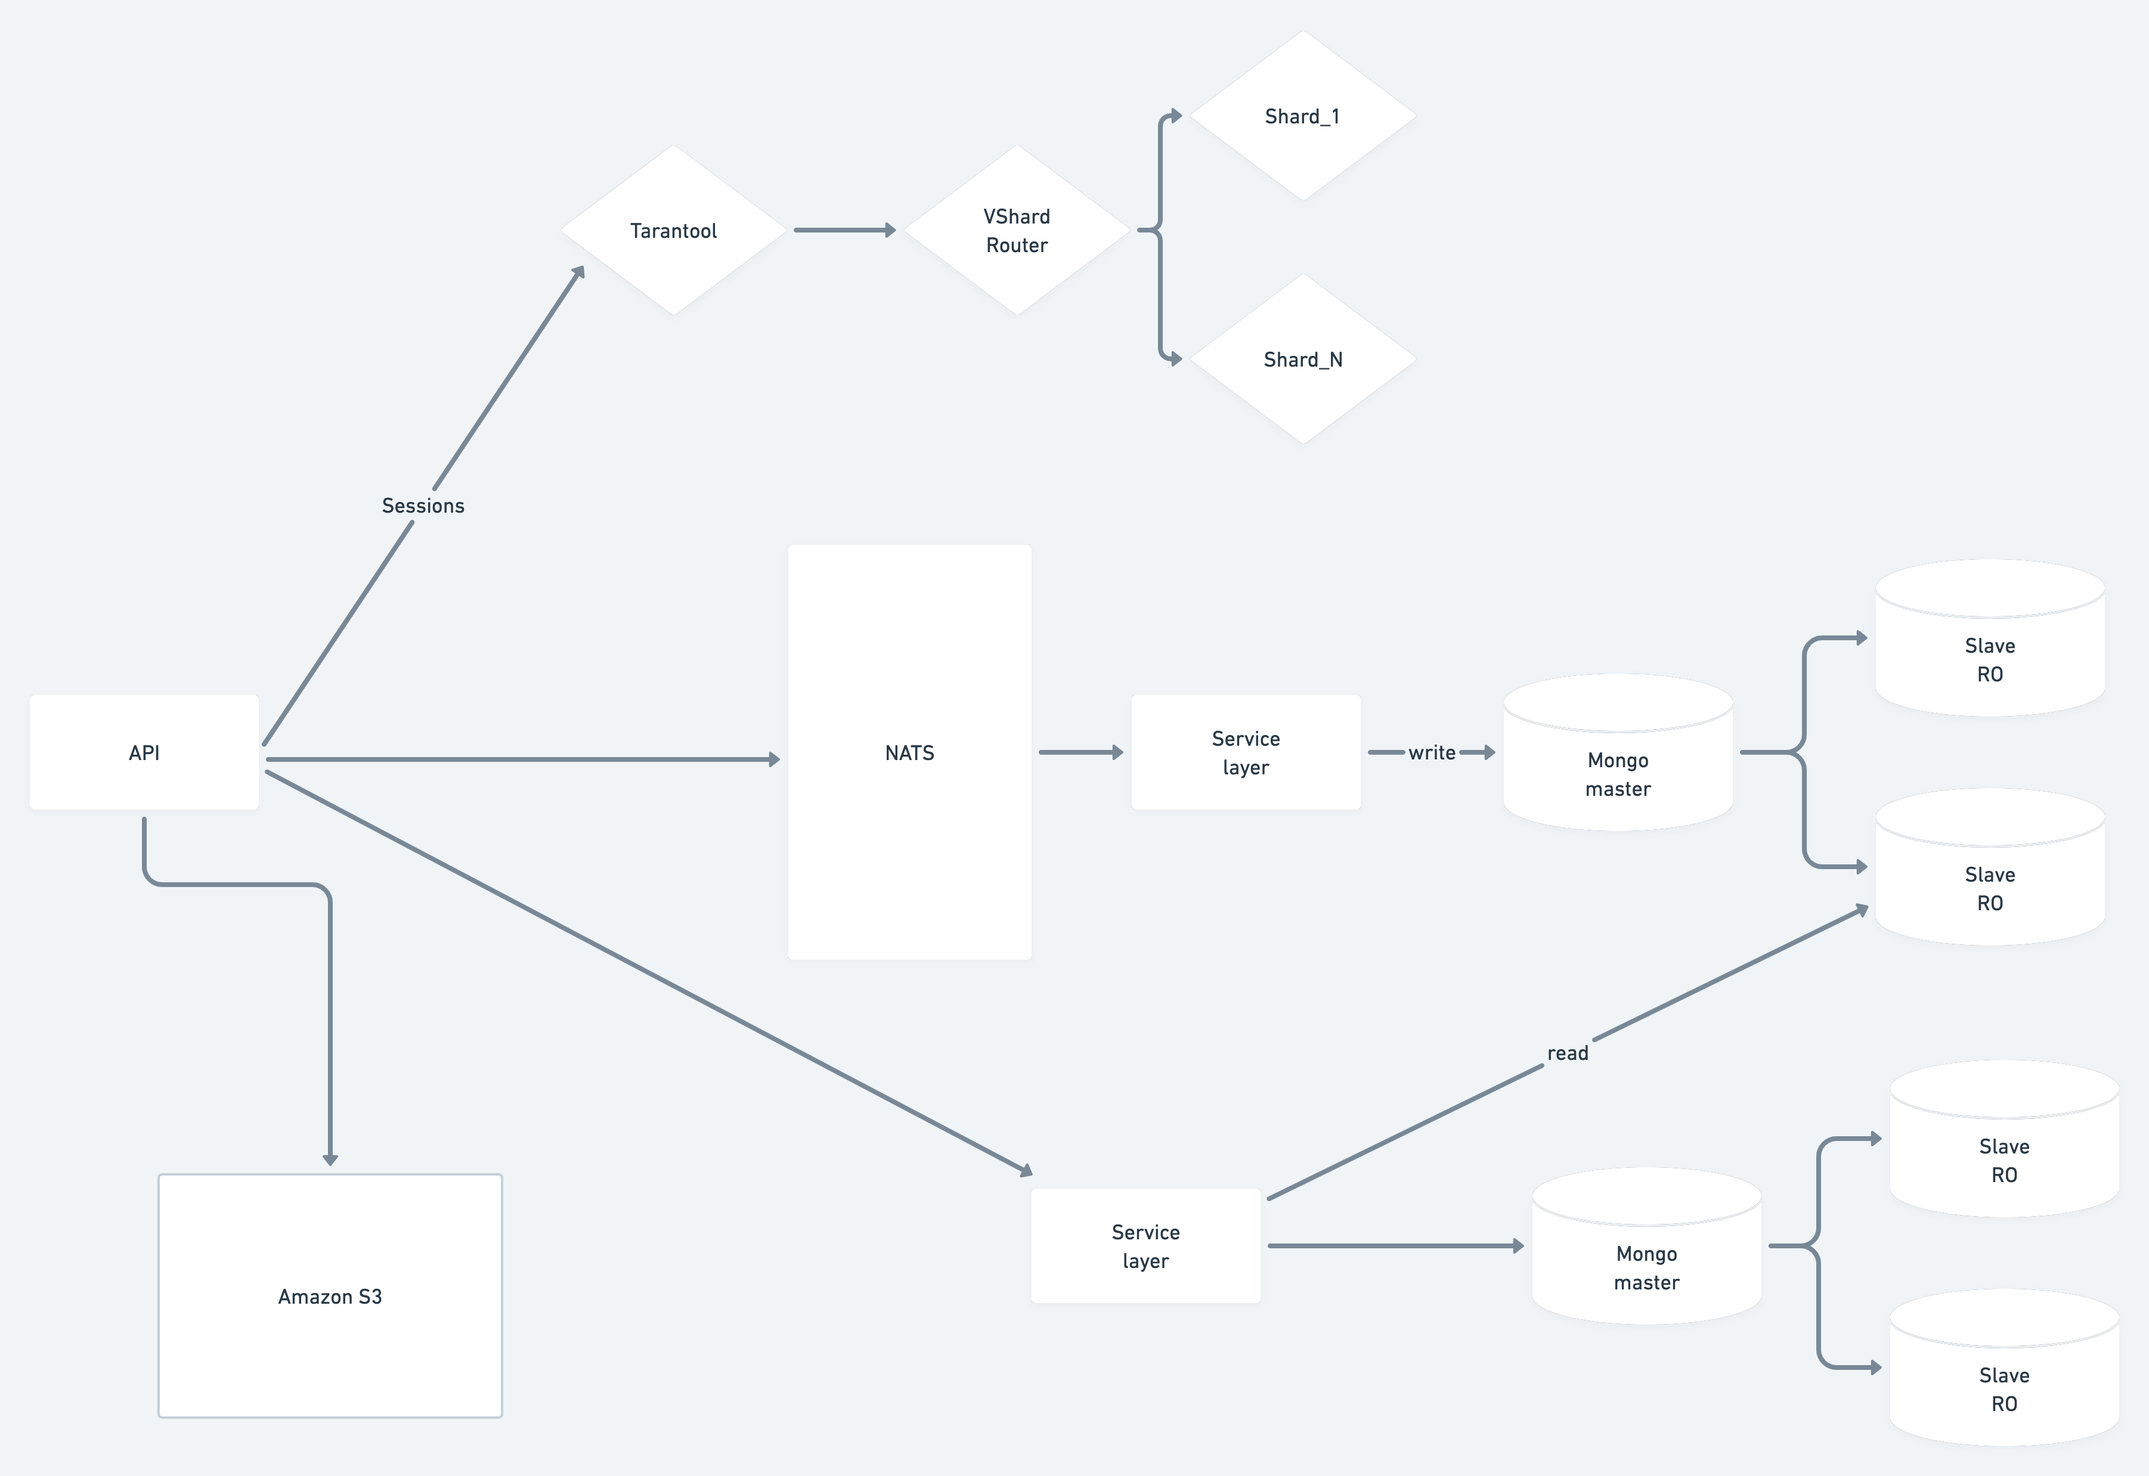
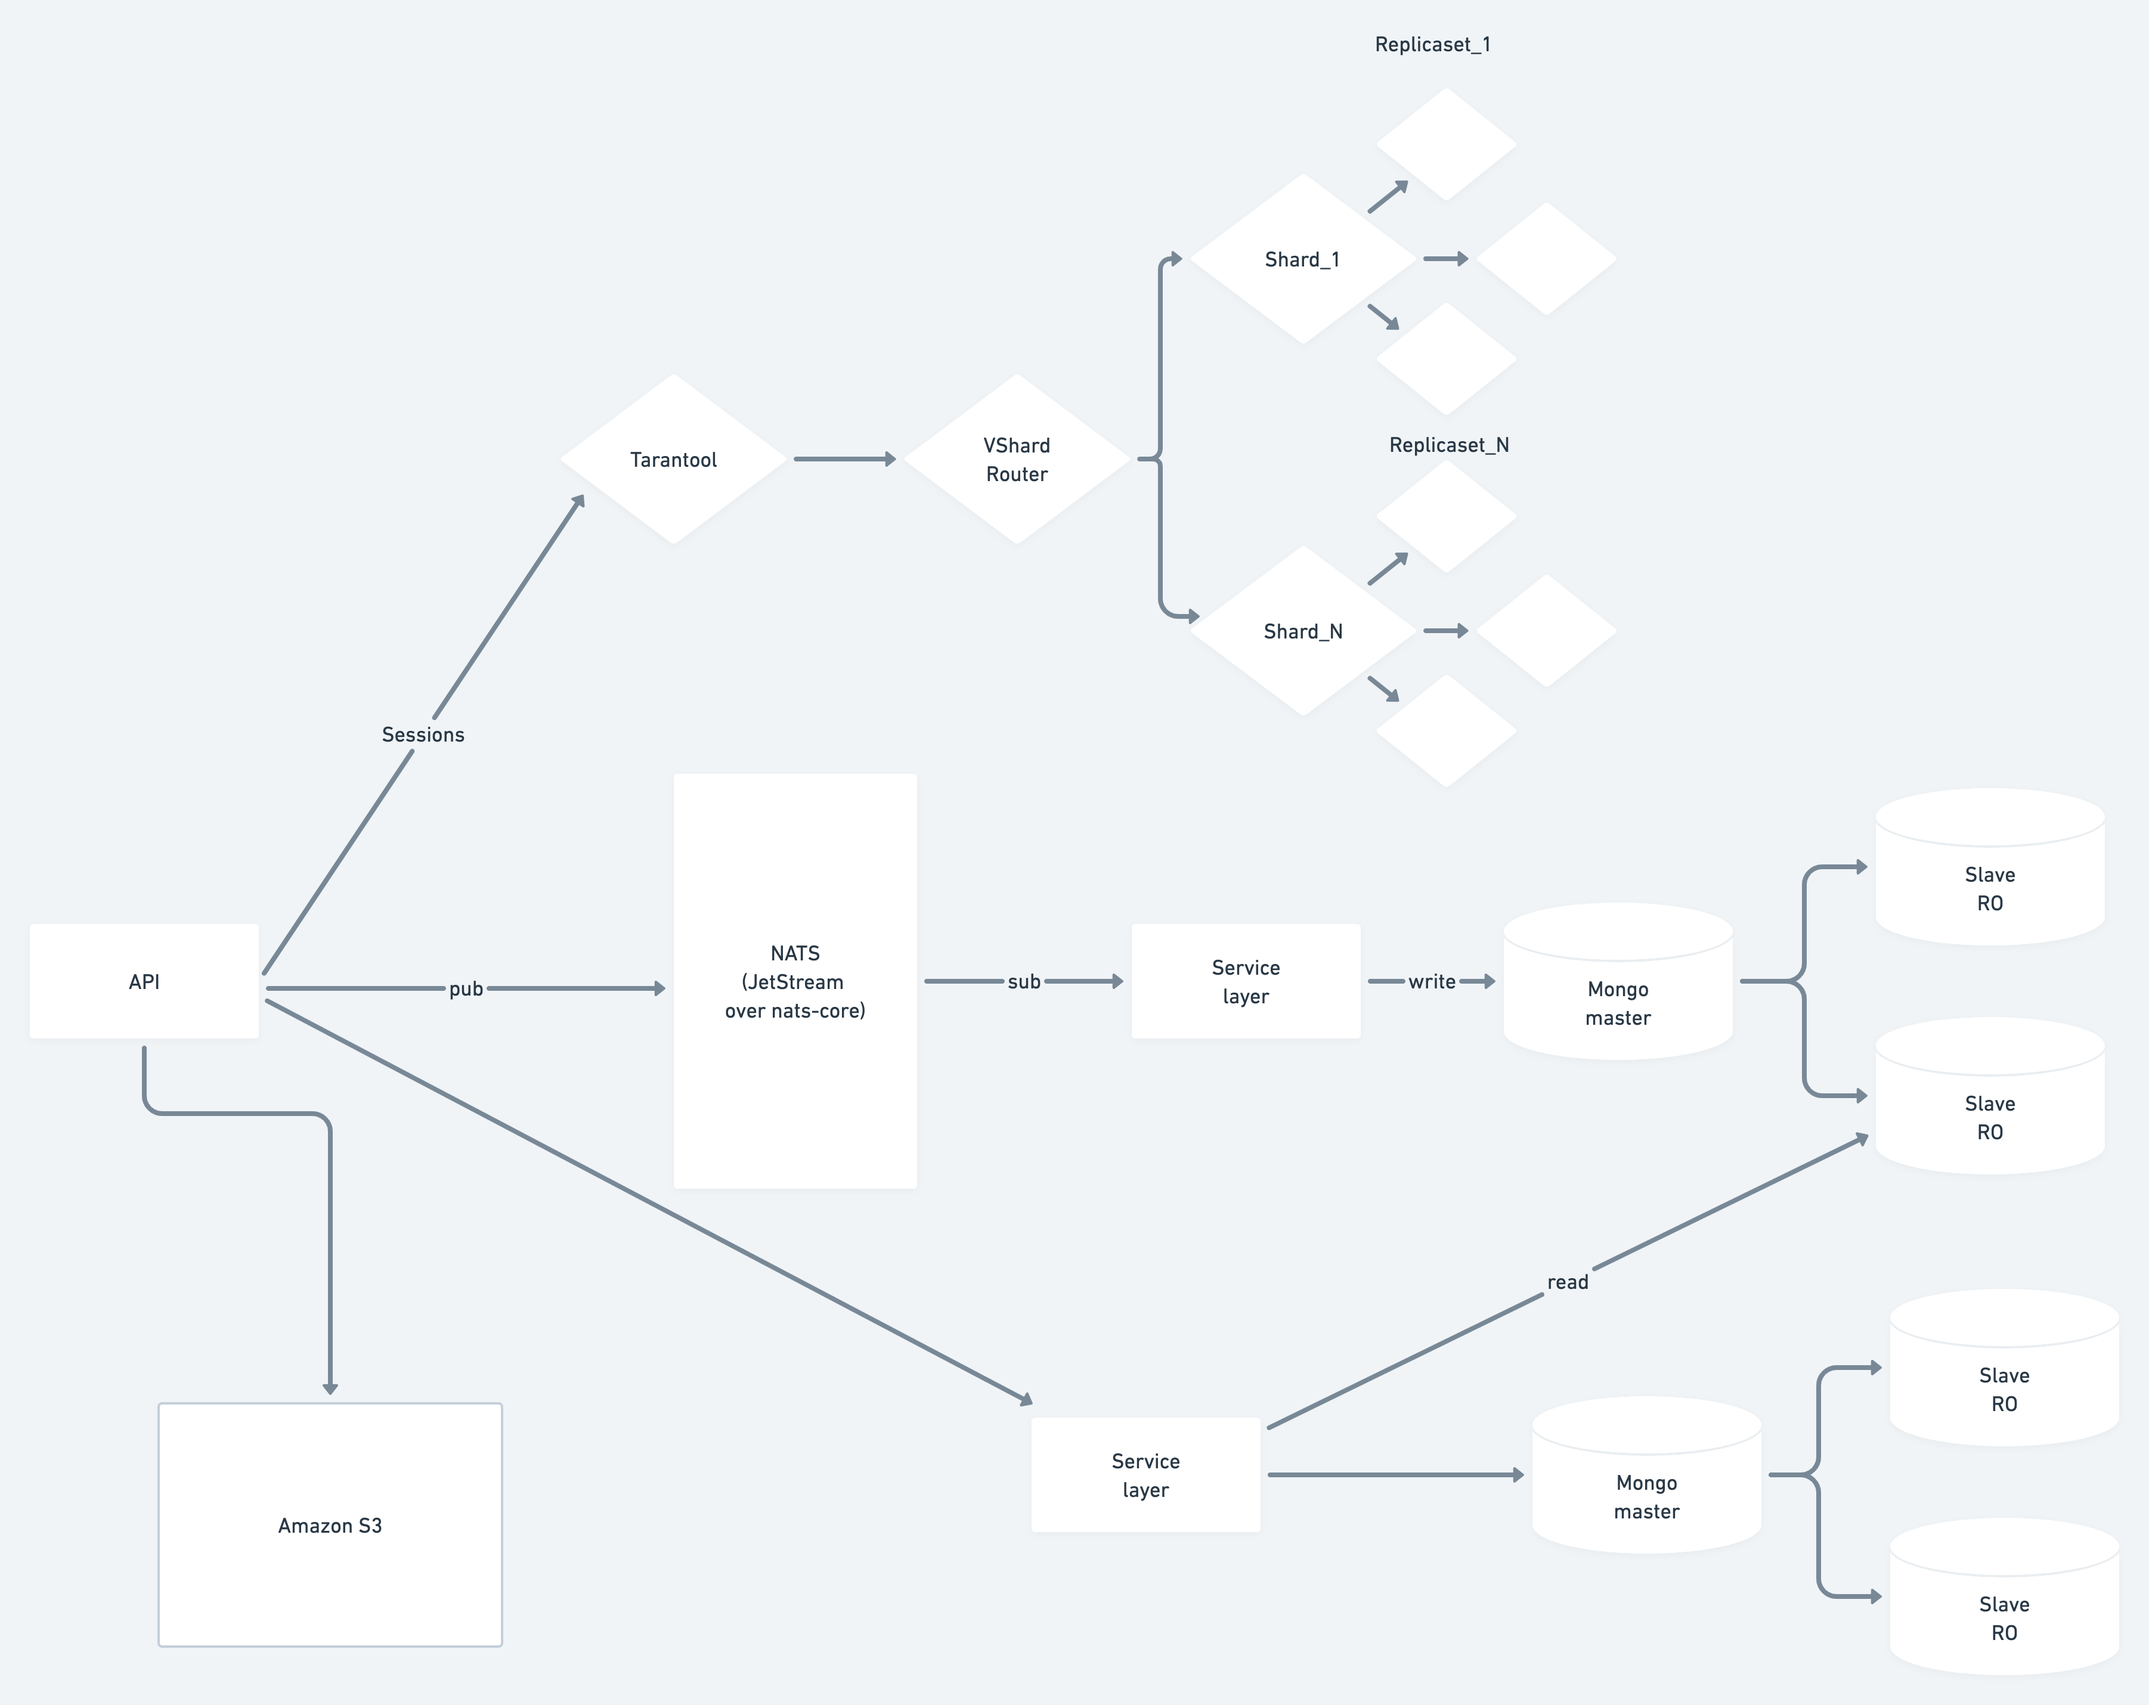
physical scheme upd

diff --git a/README.md b/README.md
@@ -73,6 +73,17 @@ MVP:
 
 ##4. Физическая схема
 ![](internal/db-chat@2x.png)
+
+- Amazon S3 используется для хранения и раздачи медиа файлов и всей статики.
+- В Tarantool храним сессии пользователей, будет использоваться как key-value хранилище с шардингом по VShard.
+- Для реализации очереди сообщений будет использоваться встроенная в NATS система JetStream которая расширяет nats-core
+и дает персистентность и надежность хранения сообщений в очереди наряду с тем, что сам nats-server дает хорошую 
+производительность по сравнению с аналогами в виде RabbitMQ.
+- В mongoDB будем хранить данные пользователей, сообщения, списки чатов и посты в каналах. 
+При заданной нагрузке базу необходимо шардировать со старта. Разбивать на базы и шарды будем по нагрузке. 
+Данные пользователей и списки чатов будем хранить в отдельной базе. 
+Сообщения и посты будем также хранить в отдельной базе. Разбивать на шарды будем по id чата и канала.
+
 ##5. Технологии
    - JavaScript - для написания фронтенда приложения
    - React - для упрощения разработки фронтенда 
@@ -80,7 +91,7 @@ MVP:
    - Tarantool Cartridge - для кеша, хранения сессий
    - MongoDB - для хранения данных пользователей, чатов и каналов
    - Nginx - reverse proxy, раздача статики, балансинг на уровне L7
-   - NATS - для разработки сервиса сообщений
+   - NATS - для реализации сервиса сообщений
 
 ##6. Схема проекта
 ##7. Список серверов
